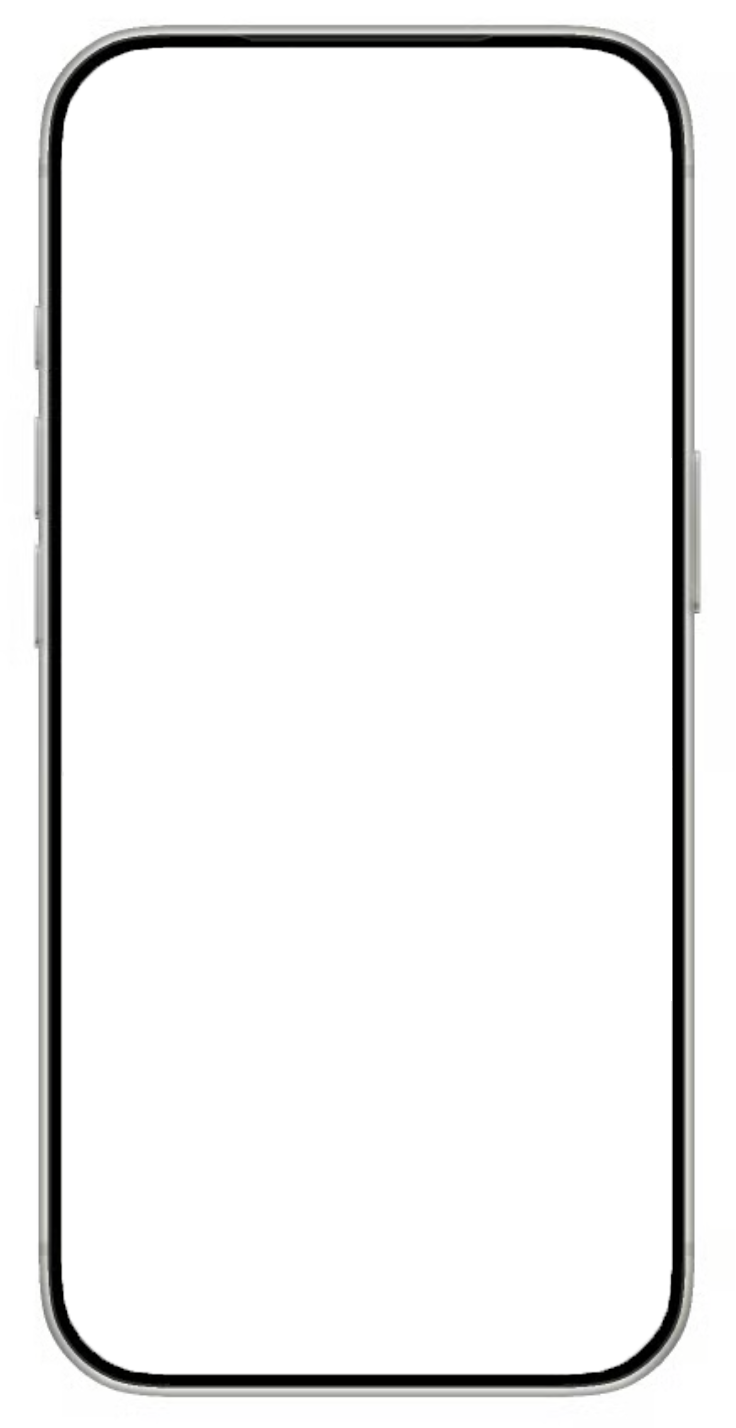
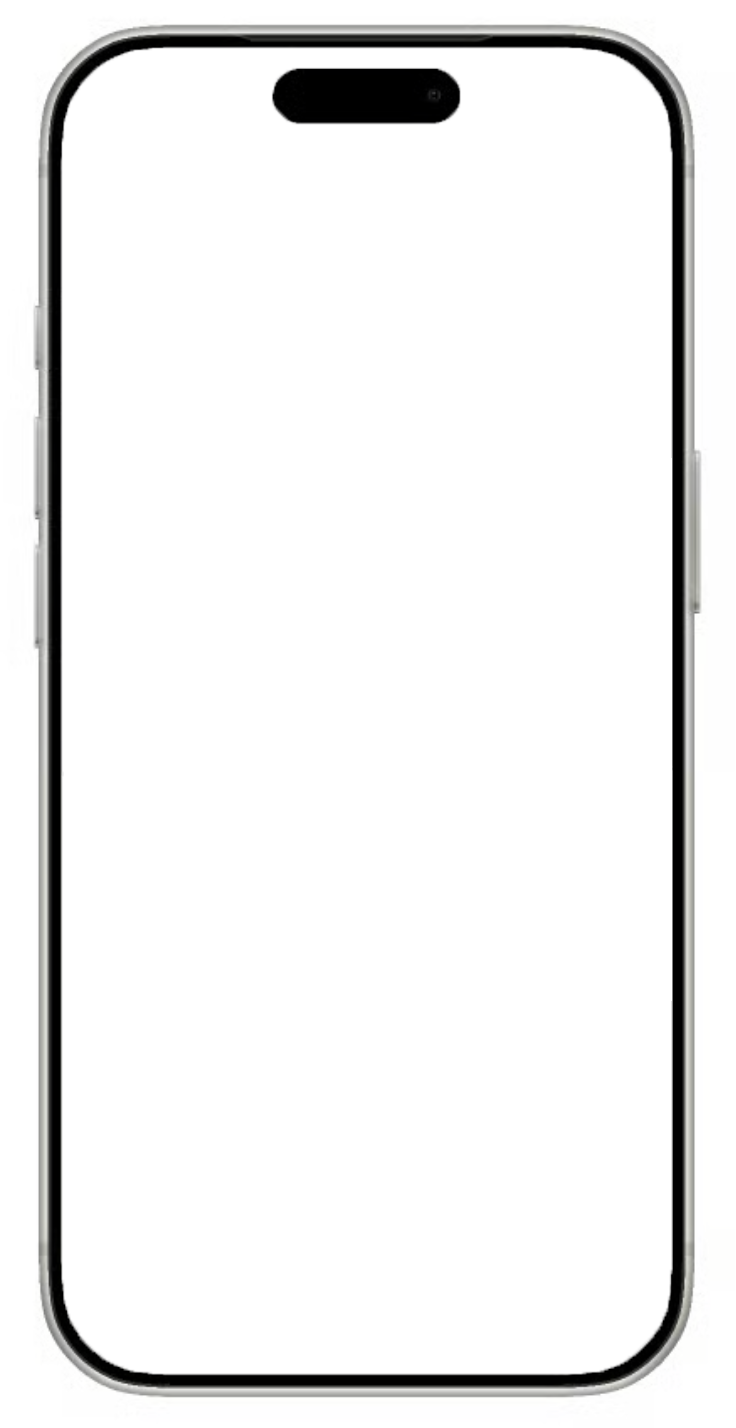
Keep the iPhone Dynamic Island and inset the sales-sheet screen below it.
The Google shot sits under the cutout instead of removing the island from the frame.

Changed region(s): [[0.375, 0.0308, 0.625, 0.0924]]

diff --git a/src/lib/salesSheetPlacesView.ts b/src/lib/salesSheetPlacesView.ts
@@ -81,7 +81,7 @@ function reviewsLabel(count: number | undefined): string {
 
 /** Media-library slug for the iPhone 17 sales-sheet wrapper (736×1428, padded). */
 export const IPHONE_FRAME_SLUG = 'iphone17-frame';
-/** Repo copy — no Dynamic Island, so the SERP is not inset for a cutout. */
+/** Repo copy of the iPhone 17 wrapper (island intact; screen content is inset below it). */
 export const IPHONE_FRAME_SRC = `/admin/${IPHONE_FRAME_SLUG}.png`;
 
 export type PlacesPhoneMockOpts = {
@@ -216,13 +216,13 @@ export function renderPlacesPhoneMockHtml(
   left: 8.15%;
   z-index: 1;
   overflow: hidden;
-  padding-top: 2.2%;
+  /* Reserve the Dynamic Island band so search chrome is not under the cutout. */
+  padding-top: 7.5%;
   background: var(--ss-phone-screen);
   border-radius: 12% / 6%;
 }
 .ss-phone-screen:has(.ss-phone-serp) {
-  padding-top: 0;
-  background: #fff;
+  background: #000;
 }
 .ss-phone-serp {
   display: block;
